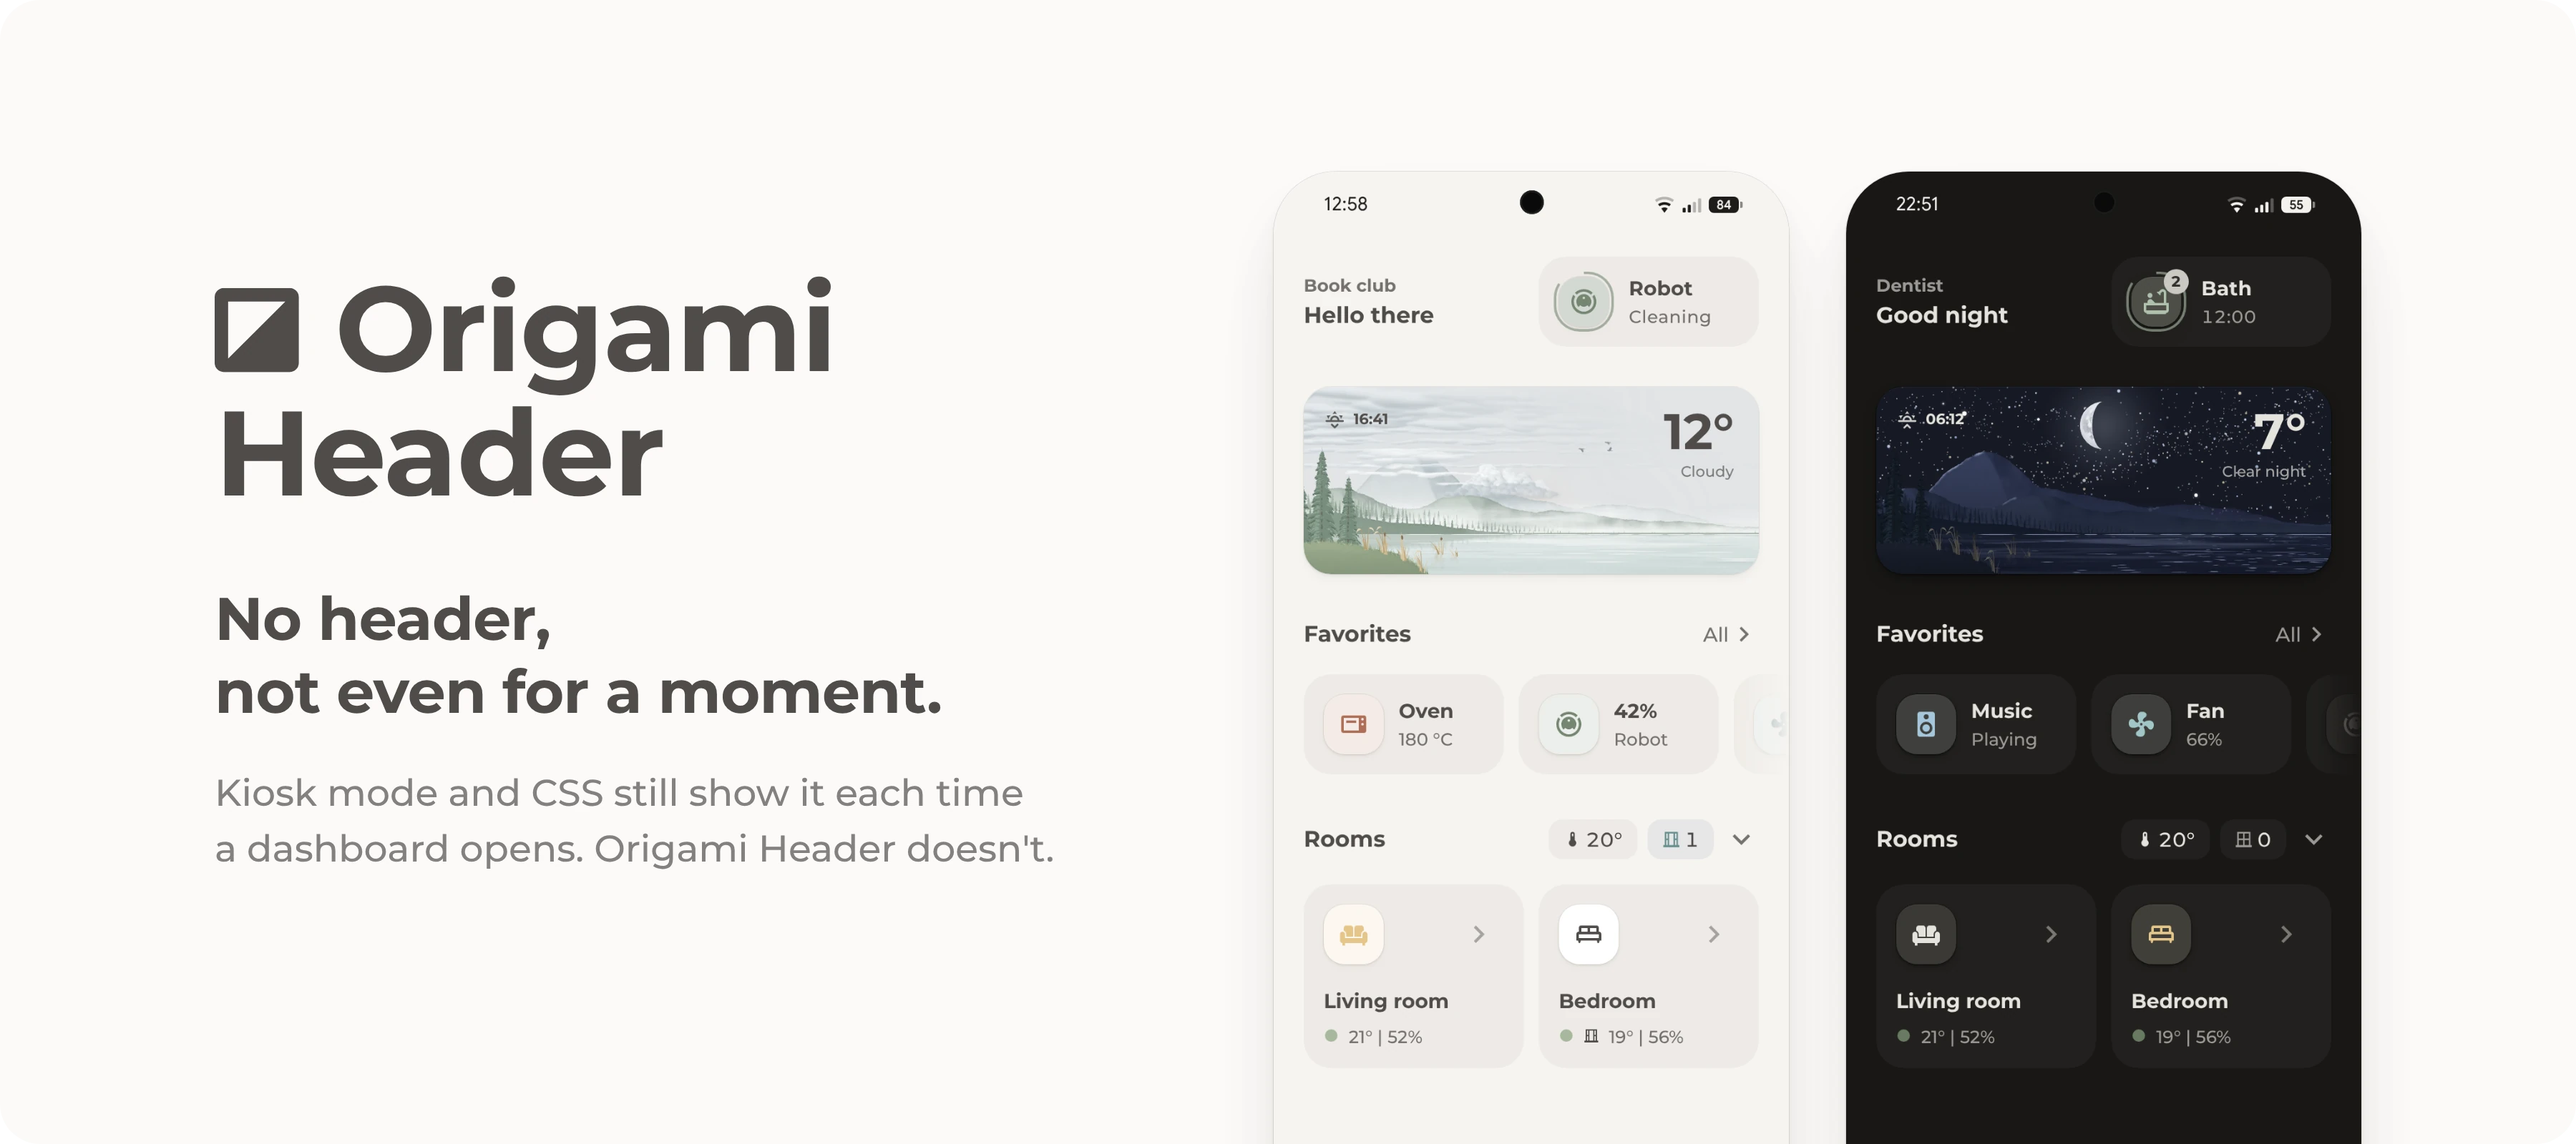
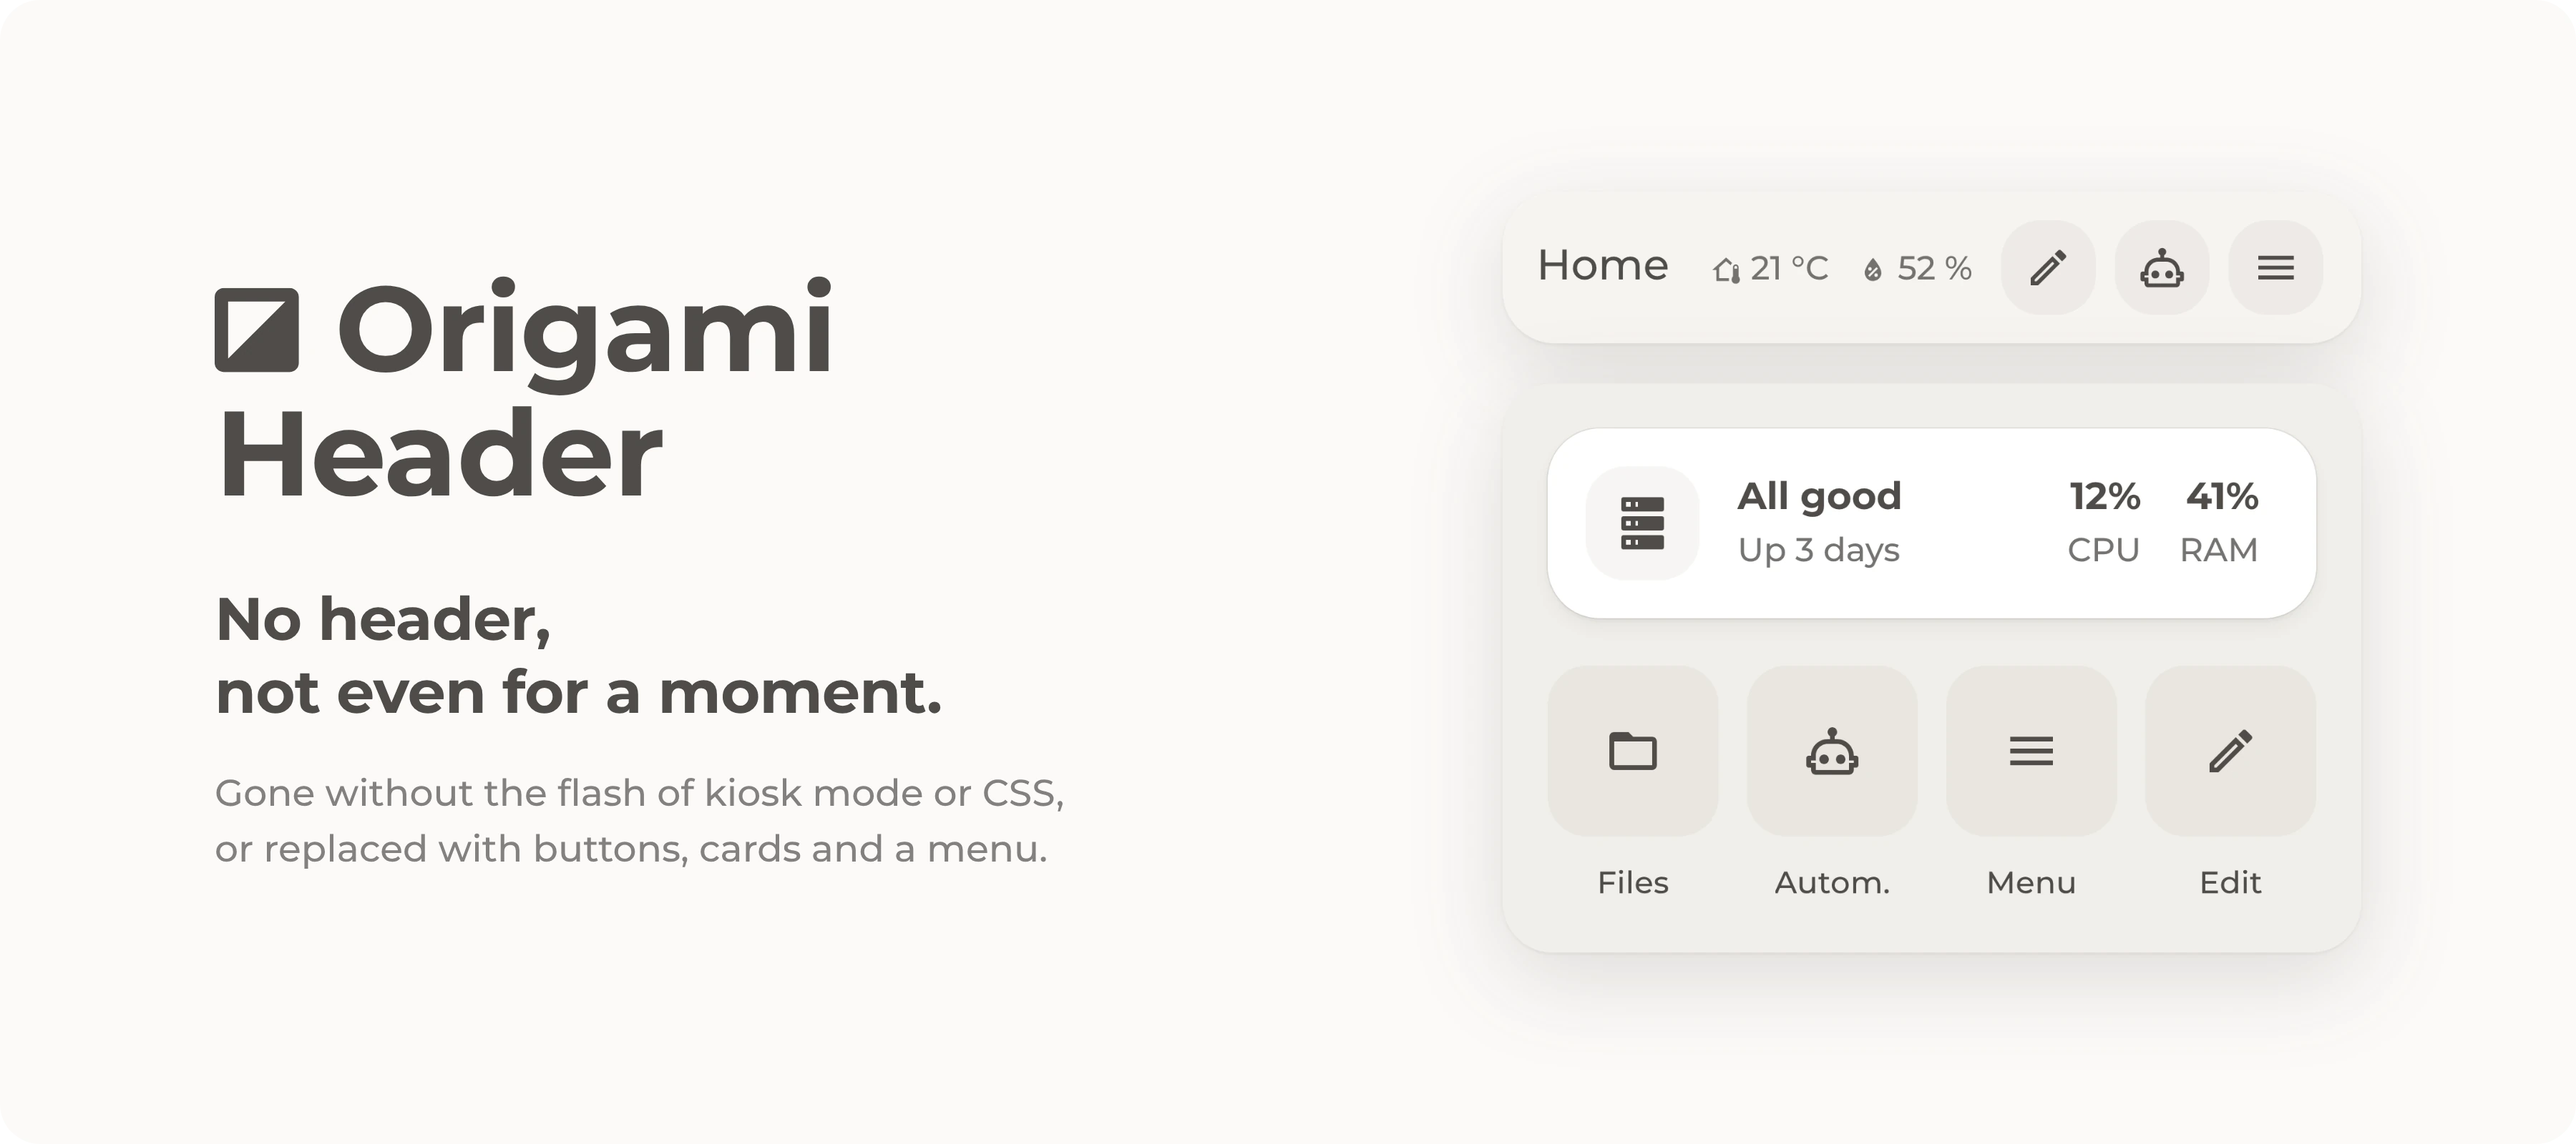
Hero with the header and the menu

diff --git a/README.md b/README.md
@@ -5,7 +5,7 @@
 
 <picture>
   <source media="(prefers-color-scheme: dark)" srcset="https://raw.githubusercontent.com/hazymorning/origami_header/main/images/hero-dark.webp">
-  <img alt="Origami Header on two phones, with the dashboard right at the top and no header, in light and dark mode" src="https://raw.githubusercontent.com/hazymorning/origami_header/main/images/hero-light.webp">
+  <img alt="Origami Header with a custom header and the menu that folds out" src="https://raw.githubusercontent.com/hazymorning/origami_header/main/images/hero-light.webp">
 </picture>
 
 Origami Header hides the dashboard header in Home Assistant without the flash. Kiosk mode and CSS still show the header for a moment every time a dashboard opens. With Origami Header, it never appears.
